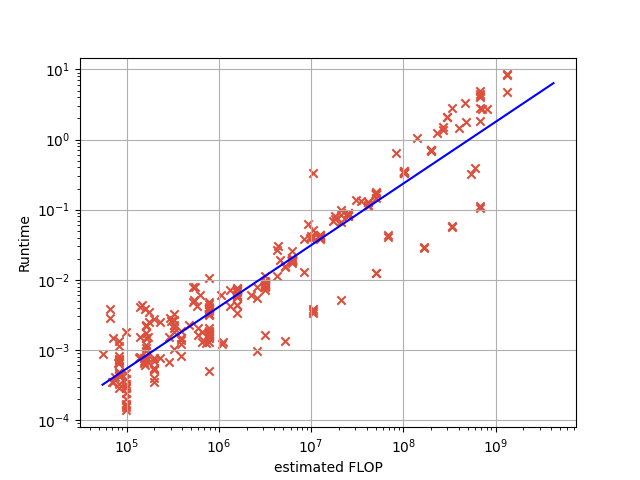
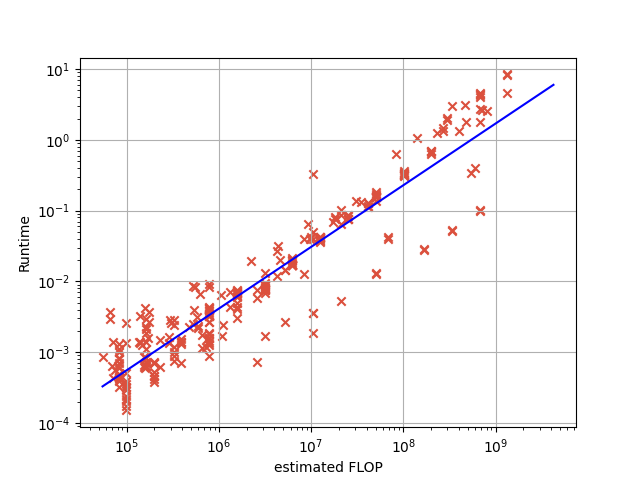
[jlse-results] for `[jlse-run] use different method of timing`

diff --git a/run/automake/results/result.md b/run/automake/results/result.md
@@ -1,15 +1,15 @@
 ## Automake run result
 ### Performance summary:
 ===Results===
-Total time: 80.923
-Simulator fitted flops: 0.046311 G
-Matmul flops: 204.3 G
-Simulator optimality: 0.00022668319088030888
+Total time: 79.116
+Simulator fitted flops: 0.041285 G
+Matmul flops: 221.86 G
+Simulator optimality: 0.00018608346870725733
 \n
 \n
 Backend used: mkl (full)
 \n
 ### Performance plot:
-![](https://asset.cml.dev/4cb66cd1f7888cc7e3eddf0da042da38c90b75db)
+![](https://asset.cml.dev/b21650c77b199efc687ad3a73ccb1c89a8d8aaa3)
 \n
-Run date: Sat Oct 10 21:50:16 UTC 2020
+Run date: Sat Oct 10 22:06:50 UTC 2020
